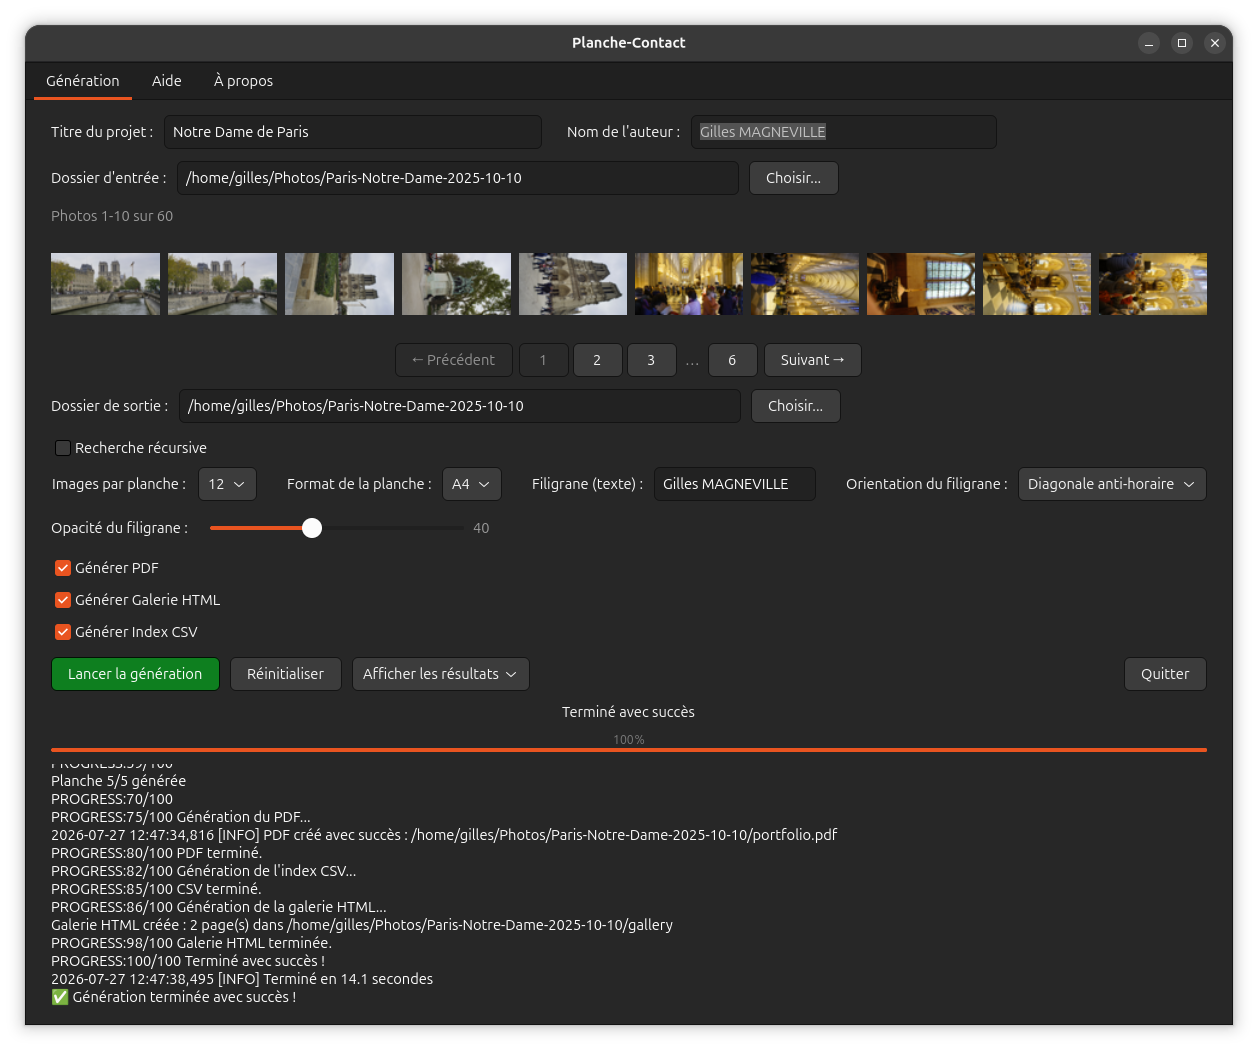
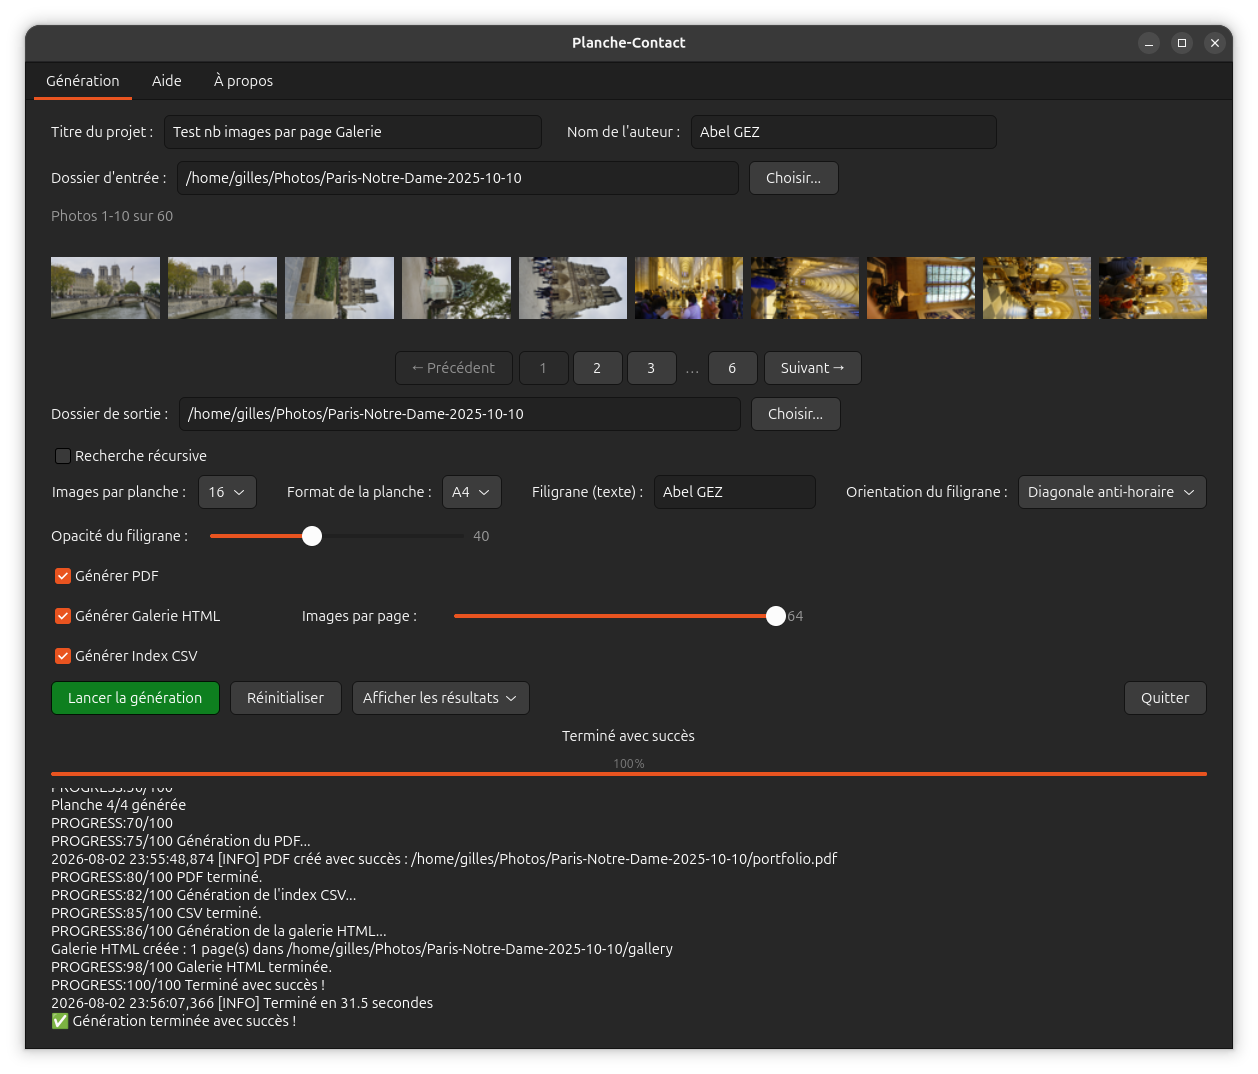
Screenshot main-window et docs à jours

diff --git a/docs/planche-contact-manual.html b/docs/planche-contact-manual.html
@@ -104,6 +104,7 @@ Le support des fichiers RAW s'appuie sur la bibliothèque <code>rawpy</code>, in
 </td></tr>
 <tr><td><strong>Opacité du filigrane</strong></td><td>Curseur de 0 à 100% (défaut : 40%). S'applique de façon identique aux planches, au PDF et à la galerie HTML.</td></tr>
 <tr><td><strong>Options d'export</strong></td><td>Cases à cocher : Générer PDF, Générer Galerie HTML, Générer Index CSV.</td></tr>
+<tr><td><strong>Images par page</strong></td><td>Nombre de vignettes par page de la galerie HTML (12 à 64, par pas de 4, défaut : 48). Sur la même ligne que la case « Générer Galerie HTML ».</td></tr>
 </table>
 
 <p>Si aucun des trois champs Titre / Auteur / Filigrane n'est renseigné, l'en-tête des planches affiche par défaut le nom du dossier d'entrée (sans son chemin complet), pour éviter une planche totalement anonyme.</p>
@@ -125,7 +126,7 @@ Le support des fichiers RAW s'appuie sur la bibliothèque <code>rawpy</code>, in
 <p>Après une génération réussie, ce bouton (à liste déroulante) permet d'ouvrir directement les résultats avec les applications par défaut du système, sans agrandir la fenêtre principale :</p>
 <table>
 <tr><th>Option</th><th>Action</th></tr>
-<tr><td><strong>Planches contact</strong></td><td>Ouvre toutes les planches en une fois dans la visionneuse d'images par défaut (navigation possible entre les planches avec les flèches).</td></tr>
+<tr><td><strong>Planches contact</strong></td><td>Ouvre le dossier <code>planches/</code> dans le gestionnaire de fichiers par défaut.</td></tr>
 <tr><td><strong>Portfolio PDF</strong></td><td>Ouvre le PDF avec le lecteur par défaut.</td></tr>
 <tr><td><strong>Galerie HTML</strong></td><td>Ouvre la galerie dans le navigateur par défaut.</td></tr>
 <tr><td><strong>Index CSV</strong></td><td>Ouvre le fichier CSV avec l'application par défaut (tableur, généralement).</td></tr>

diff --git a/planche-contact-gtk.py b/planche-contact-gtk.py
@@ -1228,53 +1228,17 @@ class PlancheContactGTK(Gtk.Application):
         if not planches_dir.is_dir():
             return
 
-        planche_files = sorted(
-            p for p in planches_dir.iterdir()
-            if p.is_file() and p.suffix.lower() in (".jpg", ".jpeg", ".png")
-        )
-        if not planche_files:
-            return
-
-        if sys.platform == "win32":
-            # os.startfile() ne prend qu'un seul chemin ; on ouvre donc la
-            # première planche - l'appli Photos de Windows détecte
-            # automatiquement les autres images du même dossier et permet
-            # d'y naviguer avec les flèches, comme sous Linux/macOS.
-            if not self._open_path_with_default_app(planche_files[0]):
-                self._show_no_viewer_dialog(
-                    "Aucune visionneuse d'images disponible",
-                    "Aucune application par défaut n'est configurée pour ouvrir des "
-                    "images sur ce système.\n\nInstallez une visionneuse d'images "
-                    "(par exemple l'appli Photos de Windows) puis réessayez."
-                )
-            return
-
-        gfiles = [Gio.File.new_for_path(str(p)) for p in planche_files]
-
-        # On ouvre toutes les planches EN UNE FOIS dans le visualiseur
-        # d'images par défaut du système : la plupart des visionneuses
-        # (Loupe, eog, gThumb...) permettent alors de naviguer entre elles
-        # avec les flèches, comme dans une vraie visionneuse - contrairement
-        # à ouvrir le dossier dans le gestionnaire de fichiers.
-        content_type, _ = Gio.content_type_guess(str(planche_files[0]), None)
-        app_info = Gio.AppInfo.get_default_for_type(content_type, False) if content_type else None
-
-        if app_info is not None:
-            try:
-                app_info.launch(gfiles, None)
-                return
-            except Exception:
-                pass
-
-        # Repli : aucun visualiseur par défaut trouvé (ou son lancement a
-        # échoué) - on tente d'ouvrir au moins la première planche avec
-        # l'application par défaut associée aux fichiers image.
-        if not self._open_path_with_default_app(planche_files[0]):
+        # Ouvre le DOSSIER des planches (gestionnaire de fichiers), pas une
+        # planche individuelle : contrairement à une visionneuse d'images
+        # unique, ça fonctionne de façon identique quel que soit le nombre
+        # de planches, et laisse l'utilisateur choisir laquelle regarder -
+        # même mécanisme que pour le PDF/la galerie/le CSV, appliqué ici à
+        # un dossier plutôt qu'à un fichier.
+        if not self._open_path_with_default_app(planches_dir):
             self._show_no_viewer_dialog(
-                "Aucune visionneuse d'images disponible",
-                "Aucune application par défaut n'est configurée pour ouvrir des images "
-                "sur ce système.\n\nInstallez une visionneuse d'images (par exemple : "
-                "Loupe, eog, ou gThumb) puis réessayez."
+                "Aucun gestionnaire de fichiers disponible",
+                "Aucune application par défaut n'est configurée pour ouvrir des "
+                "dossiers sur ce système."
             )
 
     def _open_pdf(self):

diff --git a/PROJECT_CONTEXT.md b/PROJECT_CONTEXT.md
@@ -58,7 +58,7 @@ interactive, options `-Major/-Minor/-Patch`).
 | `thumbnail.py` | Génération de vignettes en parallèle (`ProcessPoolExecutor`, contexte `spawn` forcé) |
 | `contactsheet.py` | Génère les planches contact (en-tête, grille de vignettes, pied de page, numéro de page) |
 | `pdfexport.py` | Assemble les planches en PDF (`reportlab`) ; marge haute réduite indépendamment des autres marges |
-| `htmlgallery.py` | Galerie HTML paginée ; **une seule passe de décodage** par photo (la vignette est dérivée de l'image pleine taille déjà décodée, pas un second décodage) |
+| `htmlgallery.py` | Galerie HTML paginée ; **une seule passe de décodage** par photo (la vignette est dérivée de l'image pleine taille déjà décodée, pas un second décodage) ; `ImageOps.exif_transpose()` appliqué systématiquement pour respecter l'orientation (voir §5) |
 | `csvindex.py` | Génère l'index CSV |
 | `utils.py` | `get_font()` (police embarquée, mise en cache), `apply_watermark()` (filigrane en mosaïque, **fonction unique** utilisée par les planches, le PDF et la galerie), `setup_logging()` |
 | `portfolio.py` | Point d'entrée CLI (`argparse`), orchestre tout ce qui précède, affiche des lignes `PROGRESS:X/100 message` sur stdout (lues par l'interface graphique) |
@@ -71,7 +71,9 @@ Un seul fichier, structuré autour de la classe `PlancheContactGTK(Gtk.Applicati
 Composants principaux :
 - **Formulaire de génération** : titre/auteur, dossiers d'entrée/sortie,
   images par planche, format de page, filigrane (texte, orientation,
-  curseur d'opacité), cases PDF/HTML/CSV.
+  curseur d'opacité), cases PDF/HTML/CSV, curseur d'images par page pour la
+  galerie HTML (12 à 64 par pas de 4, sur la même ligne que la case
+  "Générer Galerie HTML").
 - **Sélecteur de dossier personnalisé** (`_choose_folder`) : entièrement
   construit à la main (`Gtk.DirectoryList` + `Gtk.FilterListModel` +
   `Gtk.CustomFilter`), pas la boîte de dialogue native (peu fiable selon
@@ -89,7 +91,11 @@ Composants principaux :
 - **Menu "Afficher les résultats"** : ouvre chaque livrable avec
   l'application par défaut du système (`Gio.AppInfo` sur Linux/macOS,
   `os.startfile()` sur Windows), avec fenêtre d'avertissement claire si
-  aucune application n'est configurée.
+  aucune application n'est configurée. Les planches contact ouvrent le
+  **dossier** `planches/` (gestionnaire de fichiers), pas un fichier
+  individuel — comportement identique quel que soit le nombre de planches
+  générées, contrairement à l'ancienne approche (visionneuse multi-images
+  avec repli sur la première planche seule).
 - **`glib_idle_add()`** : enveloppe autour de `GLib.idle_add()` tolérante à
   deux conventions d'appel différentes selon la plateforme/le binding (voir
   §6, bug PyGObject/Windows).
@@ -133,6 +139,9 @@ planche-contact/
 │   ├── installer.nsi               # Script NSIS (installeur .exe)
 │   └── README.md                   # Prérequis, dépannage, détail du pipeline
 │
+├── metainfo/
+│   └── planche-contact.metainfo.xml # Métadonnées AppStream (App Center, PackageKit)
+│
 ├── docs/
 │   └── planche-contact-manual.html # Manuel utilisateur complet
 ├── screenshots/
@@ -172,6 +181,7 @@ bel et bien dans `portfolio.py` actuel).
 - `python3-gi`, `gir1.2-gtk-4.0` (paquets système, prérequis avant d'utiliser l'interface graphique depuis les sources)
 - `fpm` (gem Ruby) pour la construction du `.deb`
 - `python3-exifread` (apt) + `rawpy` (pip) installés automatiquement dans le venv embarqué par `build-deb.sh`
+- `metainfo/planche-contact.metainfo.xml` (métadonnées AppStream), installé par `build-deb.sh` dans `/usr/share/metainfo/` — nécessaire pour qu'App Center (PackageKit + AppStream, depuis Ubuntu 26.04) reconnaisse pleinement le paquet (taille, description enrichie) au lieu de se limiter au `.desktop`
 
 ### 4.3 Spécifiques Windows
 
@@ -202,6 +212,18 @@ bel et bien dans `portfolio.py` actuel).
 - **Chargement de police** : toujours via `utils.get_font()` (mise en
   cache, police embarquée en priorité) — jamais de chemin de police codé
   en dur ailleurs dans le code.
+- **Orientation EXIF** : toujours appliquer `ImageOps.exif_transpose()`
+  juste après `rawloader.load_image()`, avant tout traitement ultérieur
+  (redimensionnement, filigrane...) — y compris dans les chemins de
+  décodage optimisés/fusionnés (voir §7, bug corrigé sur la galerie HTML
+  qui avait perdu cet appel lors du passage au décodage unique).
+- **`pip install` dans le venv embarqué (Linux, `build-deb.sh`)** :
+  toujours avec `--ignore-installed`. Le venv est créé avec
+  `--system-site-packages` ; sans ce flag, `pip` saute silencieusement la
+  copie locale d'un paquet déjà visible au niveau système sur la machine
+  de build, produisant un venv qui fonctionne par accident sur cette
+  machine mais est réellement incomplet une fois le `.deb` installé
+  ailleurs (voir §7).
 - **Filigrane** : toujours via `utils.apply_watermark()` — fonction
   unique, jamais de logique de filigrane dupliquée localement.
 - **Compatibilité GTK/Windows** : pattern défensif systématique pour les
@@ -241,6 +263,9 @@ en cause sans en connaître la raison) :
 | `contents_directory='.'` dans le `.spec` PyInstaller | PyInstaller 6+ place par défaut tout dans un sous-dossier `_internal/` ; le code de démarrage Windows s'attend à trouver les DLL/typelibs directement à côté de l'exécutable |
 | Dépôt renommé `planche-contact-linux` → `planche-contact` | Le projet n'est plus Linux-only depuis le portage Windows |
 | `windows/build-windows.ps1` + relais à la racine | Symétrie avec `build-deb.sh` (lancement depuis la racine) sans dupliquer la logique de build elle-même |
+| `fpm` (`build-deb.sh`) : scripts de maintenance via `--after-install`/`--after-remove`, jamais un dossier `DEBIAN/` dans les sources `-C` | Contrairement à `dpkg-deb --build` natif, `fpm` ne traite jamais spécialement un dossier nommé `DEBIAN/` parmi ses sources : un tel dossier finit comme contenu de données inerte (installé tel quel sur la machine cible), jamais reconnu comme scripts de maintenance ni exécuté par dpkg |
+| `IntFmt` NSIS : toujours le style printf (`"0x%X"`), jamais la syntaxe mnémonique (`"0xX"`) | `"0xX"` est documentée sur le wiki NSIS (valable en NSIS 2.x) mais ne convertit plus rien en NSIS 3.x — elle retourne la chaîne littérale inchangée, faisant silencieusement échouer tout `WriteRegDWORD` qui en dépend (ex : `EstimatedSize`, repli à 0) |
+| `makensis` + Wine installables via `apt` dans le bac à sable Linux de Claude | Permet de **compiler ET exécuter** un vrai installeur NSIS pour reproduire/valider un bug Windows sans accès à une machine Windows réelle. Nécessite `nsis` (paquet universe), et pour un installeur NSIS 32 bits par défaut : `dpkg --add-architecture i386` + `wine32:i386` (le simple `wine64` ne suffit pas). Les écritures registre sont vérifiables avec `wine reg query`. Ne remplace pas un vrai test utilisateur (thème visuel, UAC réel, etc.) mais permet de confirmer/infirmer un correctif de logique avant de le transmettre |
 
 ---
 
@@ -251,10 +276,9 @@ en cause sans en connaître la raison) :
 | Couleurs GTK4 différentes du thème Windows choisi | **Limitation inhérente**, pas un bug : GTK4 utilise son propre système de thème (Adwaita), indépendant du thème natif de l'OS. Aucune correction simple possible sans un chantier de theming dédié (interroger l'API/le registre Windows et générer du CSS GTK dynamiquement) |
 | Avertissement SmartScreen ("Windows a protégé votre PC") à l'installation | **Pas de correctif de code possible** : nécessite un certificat de signature de code payant (~100-500 €/an) ou l'accumulation naturelle de réputation avec le temps |
 | Version Python Windows figée sur celle de la dernière publication gvsbuild | Contrainte externe, pas un bug : si gvsbuild publie une nouvelle version ciblant une autre version de Python, il faudra installer cette nouvelle version (le script la détecte et propose de l'installer automatiquement) |
-| Build Windows non testable directement par Claude | Tous les correctifs du portage Windows ont été validés par itération réelle avec le mainteneur (aucun accès à une machine Windows pour Claude) — un nouveau problème peut resurgir à tout moment sur un point non encore couvert |
+| Build Windows non testable directement par Claude sur machine réelle | Aucun accès direct à une machine Windows. Cela dit, `makensis` + Wine (voir §6) permettent désormais de compiler et d'exécuter un vrai installeur NSIS dans le bac à sable Linux pour reproduire/valider un correctif de logique avant transmission — plusieurs bugs (voir historique dans `CHANGELOG.md`) ont ainsi été confirmés puis corrigés avec certitude plutôt que par déduction. Un test réel sur machine Windows par le mainteneur reste néanmoins la validation finale (thème visuel, UAC, SmartScreen...) |
 | `console=True` dans `windows/planche-contact.spec` | Activé temporairement pour le diagnostic (affiche une fenêtre console). À repasser à `False` une fois la stabilité du build Windows confirmée sur la durée |
 | Lignes `[DIAG]` dans `planche-contact-gtk.py` (`FolderPreviewController`) | Ajoutées pour diagnostiquer le blocage sur "Analyse du dossier..." (résolu). À retirer une fois le build Windows pleinement validé |
-| `portfolio/fonts/` (police embarquée) absent du dépôt réel au 01/08/2026 | Correctif livré pour l'en-tête/pied de page trop petits sous Windows (voir §6), à vérifier s'il a bien été appliqué |
 
 ---
 
@@ -262,8 +286,6 @@ en cause sans en connaître la raison) :
 
 - Retirer `console=True` et les lignes `[DIAG]` une fois le build Windows
   validé sur la durée (voir §7).
-- Vérifier que `portfolio/fonts/` (police embarquée) est bien appliqué sur
-  le dépôt réel.
 - Publier une release binaire Windows officielle une fois les tests
   utilisateur réels concluants.
 - Internationalisation (i18n) — l'interface et les messages sont

diff --git a/CHANGELOG.md b/CHANGELOG.md
@@ -17,6 +17,8 @@ Le projet suit autant que possible les recommandations de **Keep a Changelog** e
 - Onglet "À propos" : mention de la licence GNU GPL v3, nom du développeur et lien vers le dépôt GitHub.
 - Portage Windows 10/11 (`windows/`) : script de build PowerShell, fichier `.spec` PyInstaller, installeur NSIS, à partir du même code source que la version Linux (le moteur `portfolio/` est strictement identique ; l'interface graphique ne reçoit que quelques ajouts ciblés et sans effet sous Linux/macOS : bloc de démarrage indiquant à GTK4 où trouver ses bibliothèques embarquées, et repli sur `os.startfile` pour ouvrir un fichier avec l'application par défaut du système).
 - Documentation utilisateur entièrement réécrite (`docs/planche-contact-manual.html`) et guide de build Windows dédié (`windows/README.md`).
+- Curseur "Images par page" pour la galerie HTML dans l'interface (12 à 64 par pas de 4, sur la même ligne que la case "Générer Galerie HTML"), ainsi que l'argument `--html-per-page` en ligne de commande.
+- Métadonnées AppStream (`metainfo/planche-contact.metainfo.xml`), installées dans `/usr/share/metainfo/` : permet à App Center (PackageKit + AppStream, depuis Ubuntu 26.04) de reconnaître pleinement le paquet.
 
 ### Modifié
 
@@ -28,6 +30,7 @@ Le projet suit autant que possible les recommandations de **Keep a Changelog** e
 - Marge haute des planches contact et du PDF réduite, espace entre l'en-tête et la grille de vignettes agrandi.
 - Chargement des polices rendu multiplateforme (Linux/Windows/macOS) au lieu d'un chemin Linux codé en dur.
 - Nom du projet uniformisé en "Planche-Contact" (au lieu de "Planche-Contact Linux") dans le README et ce journal, le projet n'étant plus limité à Linux.
+- Bouton "Planches contact" du menu "Afficher les résultats" : ouvre désormais le dossier `planches/` (gestionnaire de fichiers) plutôt qu'une image individuelle — comportement identique quel que soit le nombre de planches générées.
 
 ### Corrigé
 
@@ -36,6 +39,11 @@ Le projet suit autant que possible les recommandations de **Keep a Changelog** e
 - Icône de l'application absente du `.deb` (le script cherchait un fichier à un chemin inexistant) ; installée désormais en plusieurs tailles (48 à 256 px).
 - Fichier `VERSION` du projet pouvant être incrémenté même en cas d'échec de build, désynchronisant le numéro de version affiché du contenu réellement publié.
 - Fenêtre principale agrandie de ~90 px juste après son affichage (le temps que l'aperçu du dossier d'entrée se charge), empêchant un centrage vertical correct par le gestionnaire de fenêtres à l'ouverture.
+- Police embarquée non appliquée sur les planches contact ni le PDF (fonctionnait uniquement pour la galerie HTML) : l'en-tête et le pied de page des planches chargeaient un chemin de police codé en dur au lieu de passer par `utils.get_font()`.
+- Galerie HTML : orientation EXIF non respectée, toutes les photos affichées en paysage à la taille du capteur quel que soit leur cadrage réel — `ImageOps.exif_transpose()` n'était plus appelé depuis le passage au décodage unique (image pleine taille + vignette).
+- `.deb` : les scripts `postinst`/`postrm` n'étaient en réalité jamais exécutés par dpkg (ils atterrissaient comme simples fichiers de données inertes à `/DEBIAN/`, `fpm` ne reconnaissant pas ce dossier comme `dpkg-deb --build` natif le ferait) — aucune vérification de l'environnement Python embarqué n'avait donc jamais lieu à l'installation.
+- `.deb` : venv embarqué pouvant être incomplet (ex : `reportlab` manquant) selon ce qui se trouvait déjà installé au niveau système sur la machine de build, `pip install` sautant silencieusement la copie locale dans un venv `--system-site-packages` sans `--ignore-installed`.
+- Windows : taille de l'application non affichée dans *Paramètres > Applications > Applications installées* — `IntFmt $0 "0xX" $0` (syntaxe NSIS 2.x non fonctionnelle en NSIS 3.x) ne convertissait pas la taille calculée en hexadécimal, `EstimatedSize` retombait systématiquement à 0.
 
 ### Performances
 

diff --git a/windows/README.md b/windows/README.md
@@ -5,10 +5,11 @@ Windows (version portable `.zip` et installeur `.exe`) à partir du même
 code source que la version Linux (`portfolio/` et `planche-contact-gtk.py`
 à la racine du dépôt ne sont **pas** dupliqués — ce sont les mêmes fichiers).
 
-⚠ **Ces scripts n'ont pas pu être testés sur une vraie machine Windows au
-moment de leur rédaction** (l'environnement utilisé pour les écrire est
-Linux uniquement). Un premier essai réel demandera très probablement des
-ajustements — voir la section Dépannage plus bas.
+⚠ **Portage en cours de validation sur machine Windows réelle.** Plusieurs
+problèmes déjà rencontrés lors de tests réels ont été corrigés (voir
+`CHANGELOG.md`), mais l'ensemble n'a pas encore été validé de bout en bout
+ni publié comme release officielle. D'autres ajustements restent possibles
+— voir la section Dépannage plus bas.
 
 ## Utilisation
 
@@ -131,6 +132,17 @@ débogage, puis relancez `pyinstaller` manuellement).
 Vérifiez que `screenshots/application-icon.png` existe bien à la racine du
 dépôt, et que la conversion `.png` → `.ico` (faite par `build-windows.ps1`
 via Pillow) s'est bien déroulée sans erreur dans la sortie du script.
+
+**Taille de l'application absente dans *Paramètres > Applications***
+Corrigé (voir `CHANGELOG.md`) : `installer.nsi` utilisait `IntFmt $0
+"0xX" $0`, une syntaxe documentée sur le wiki NSIS mais non fonctionnelle
+en NSIS 3.x (ne convertit rien, renvoie la chaîne littérale inchangée),
+faisant retomber `EstimatedSize` à 0 silencieusement. Si ce symptôme
+réapparaît après une modification de ce bloc, vérifier que la conversion
+utilise bien le style printf (`"0x%X"`). Ce correctif a été validé en
+compilant et en **exécutant** réellement l'installeur via `makensis` +
+Wine dans un environnement Linux (voir §6 de `PROJECT_CONTEXT.md`),
+sans nécessiter de machine Windows.
 
 ## Ce qui est partagé avec la version Linux (aucune duplication)
 

diff --git a/README.md b/README.md
@@ -183,9 +183,10 @@ core engine (`portfolio/`) and GTK4 interface (`planche-contact-gtk.py`) as
 the Linux version — no separate codebase to maintain.
 
 **Status:** build scripts are available and produce both a portable `.zip`
-and an installer `.exe`, but this has not yet been validated end-to-end on
-a real Windows machine or published as an official release. Testing and
-feedback are very welcome.
+and an installer `.exe`. Real-machine testing is underway — several issues
+found during testing have already been fixed — but the Windows version has
+not yet been fully validated end-to-end or published as an official
+release. Testing and feedback are very welcome.
 
 ```powershell
 .\build-windows.ps1
